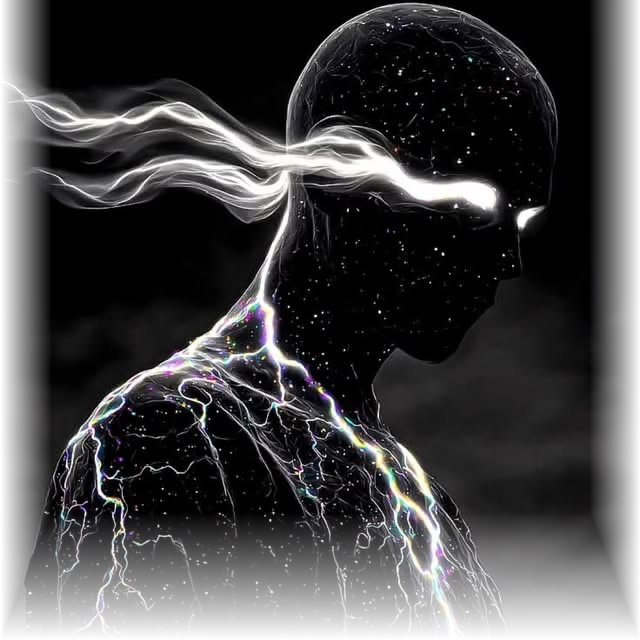
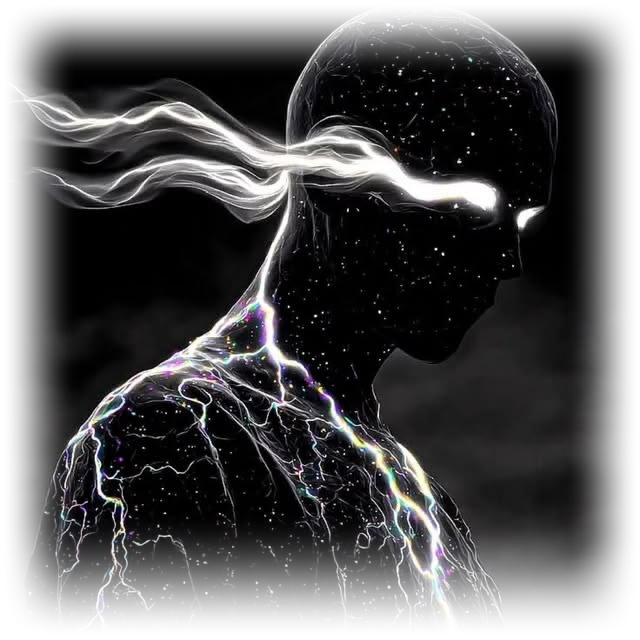
feat(arena): set cosmic orbital background on 1v1 arena showcase page

Changed region(s): [[0.0, 0.0, 1.0, 1.0], [0.125, 0.8125, 0.5938, 0.875], [0.7188, 0.9375, 0.7812, 0.9688]]

diff --git a/src/app/arena/page.tsx b/src/app/arena/page.tsx
@@ -212,11 +212,26 @@ function ArenaPageContent() {
   // =========================================================================
   if (!showPlayLobby) {
     return (
-      <div className="min-h-screen bg-[#000000] text-white relative overflow-hidden select-none flex flex-col justify-between">
-        {/* Ambient Atmospheric Lighting matching Image 1 */}
-        <div className="absolute top-0 right-1/4 w-[750px] h-[750px] bg-[radial-gradient(ellipse_60%_50%_at_60%_35%,rgba(14,165,233,0.22),transparent_70%)] pointer-events-none z-0" />
-        <div className="absolute bottom-0 left-0 w-[550px] h-[550px] bg-[radial-gradient(circle_at_20%_80%,rgba(37,99,235,0.14),transparent_65%)] pointer-events-none z-0" />
-        <div className="absolute inset-0 bg-[radial-gradient(circle_at_center,transparent_45%,rgba(0,0,0,0.85)_100%)] pointer-events-none z-0" />
+      <div className="min-h-screen bg-[#030611] text-white relative overflow-hidden select-none flex flex-col justify-between">
+        {/* Real Cosmic Orbital Background from 1st Image */}
+        <div className="absolute inset-0 z-0 pointer-events-none overflow-hidden">
+          <Image
+            src="/images/arena-orbital-bg.jpg"
+            alt="Arena Cosmic Orbital Background"
+            fill
+            priority
+            quality={95}
+            className="object-cover object-center select-none"
+          />
+          {/* Atmospheric Vignette Overlays: Keeps text crisp & readable while blending edges seamlessly */}
+          <div className="absolute inset-0 bg-gradient-to-r from-black/75 via-black/35 to-black/50" />
+          <div className="absolute inset-0 bg-gradient-to-t from-black/85 via-transparent to-black/60" />
+          <div className="absolute inset-0 bg-[radial-gradient(circle_at_center,transparent_40%,rgba(0,0,0,0.65)_100%)]" />
+        </div>
+
+        {/* Ambient Atmospheric Glow Highlights */}
+        <div className="absolute top-0 right-1/4 w-[750px] h-[750px] bg-[radial-gradient(ellipse_60%_50%_at_60%_35%,rgba(14,165,233,0.18),transparent_70%)] pointer-events-none z-0" />
+        <div className="absolute bottom-0 left-0 w-[550px] h-[550px] bg-[radial-gradient(circle_at_20%_80%,rgba(37,99,235,0.12),transparent_65%)] pointer-events-none z-0" />
 
         {/* Top Navigation Bar (Replicating Image 1 top bar) */}
         <header className="relative z-20 w-full max-w-7xl mx-auto px-6 sm:px-10 lg:px-12 pt-8 pb-4 flex items-center justify-between">
